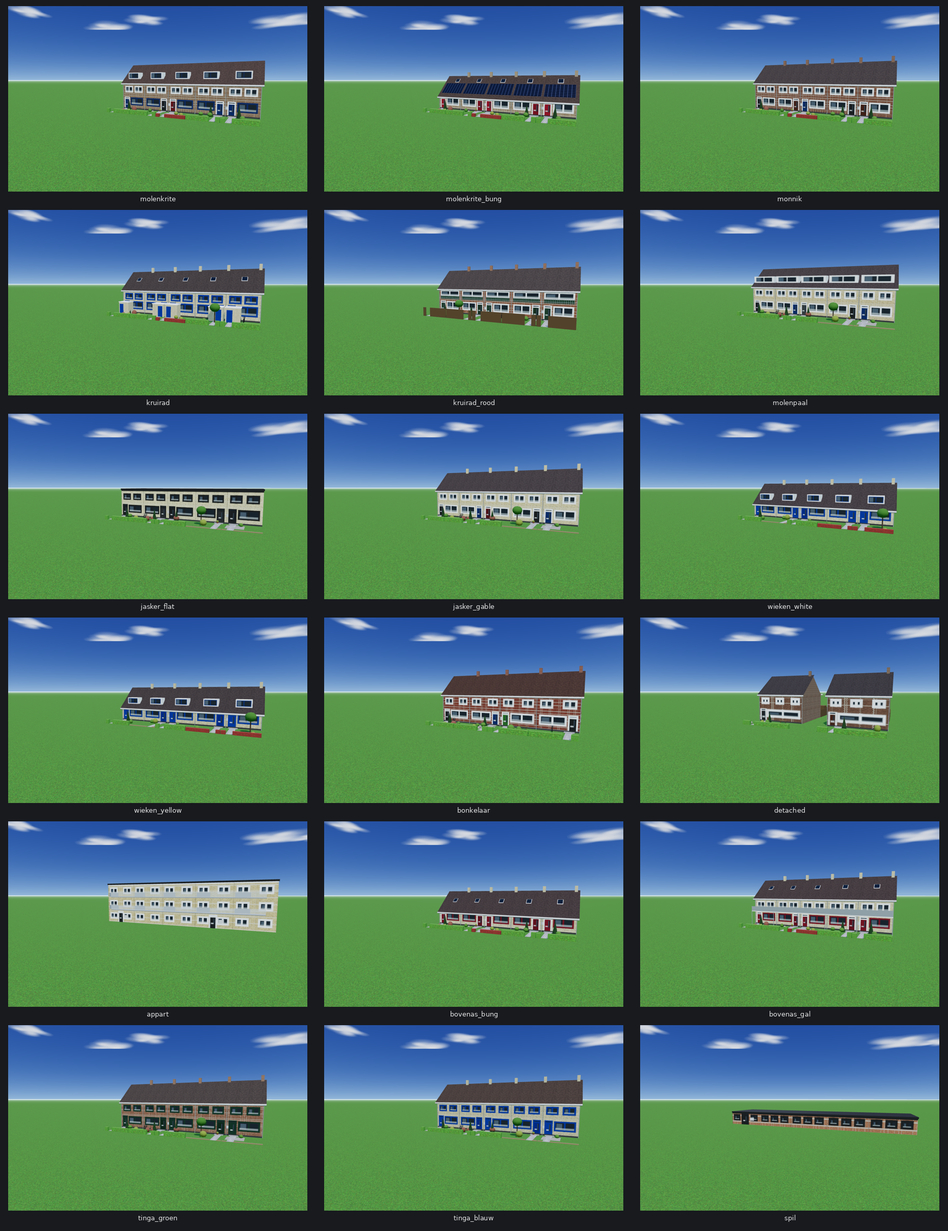
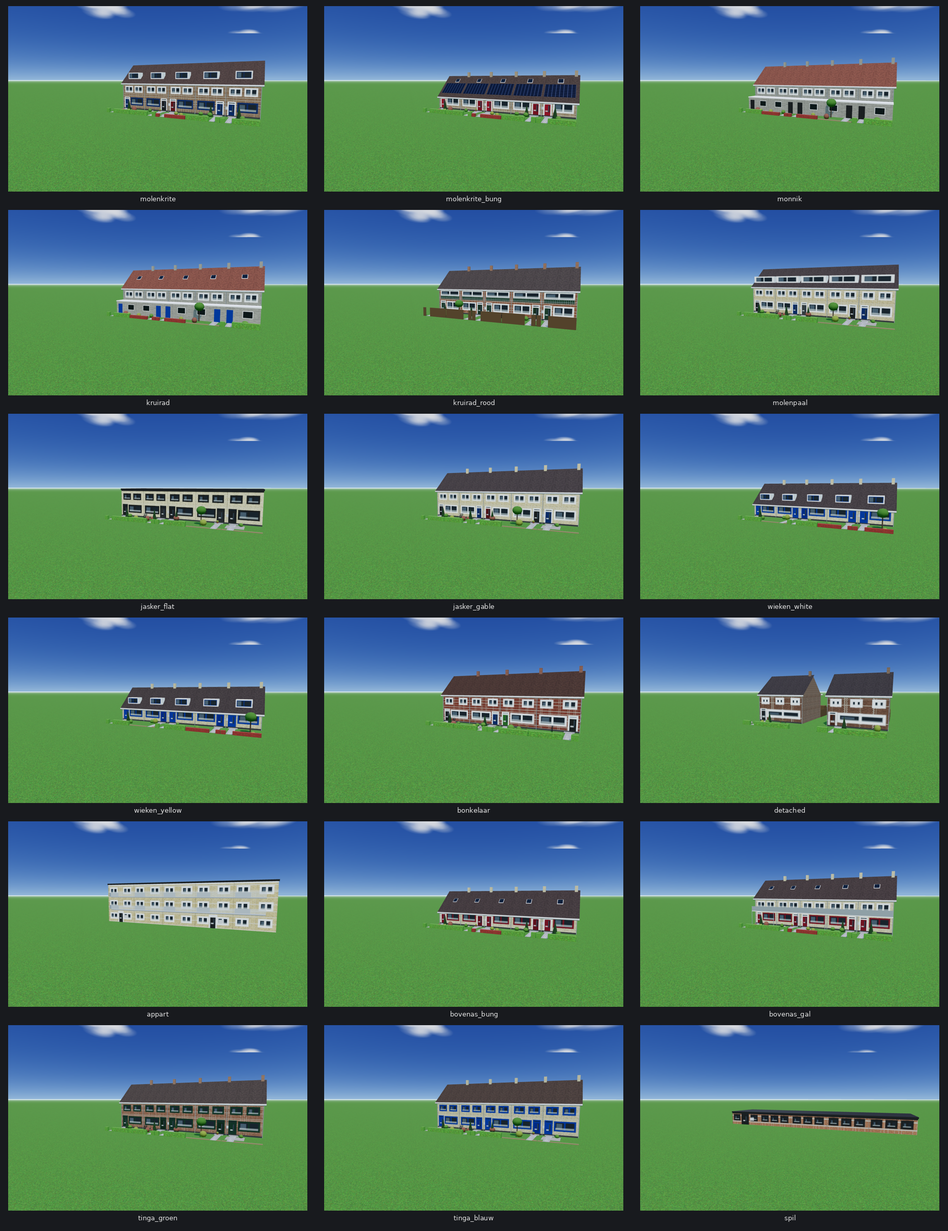
Kruirad en Monnikmolen: doorlopende laagbouw voor de gevel
Kruirad 62 en de Monnikmolen/Binnenroede van dichtbij laten zien dat ik de
opbouw verkeerd had. Het is geen bergingetje naast de voordeur, maar een
doorlopende laagbouw met plat dak over de volle breedte van het hele blok:
een gemetselde strook van 2,40 diep en 2,65 hoog met daarin de voordeuren en
per woning een raam, met het tweelaagse hoofdvolume met pannendak erachter.

Nieuw stijlveld `voorbouw`, in plaats van het te kleine `porch`. Ook de
kleuren waren mis:

- de baksteen is grijsbeige, niet lichtgeel
- de kozijnen zijn wit; alleen de deuren zijn blauw, niet elk kozijn
- het dak is roodbruine pan in plaats van donkergrijs
- verdiepinghoogte 2,75, zodat de bovenramen net boven het platte dak van de
  laagbouw beginnen

De Monnikmolen en de Binnenroede hebben dezelfde opbouw en krijgen die dus
ook. De voortuinaankleding houdt drie meter afstand van de gevel, want daar
staat de laagbouw.

Claude-Session: https://claude.ai/code/session_01CgvJ3cT2qTz68qbaTBhnbp

diff --git a/js/world.js b/js/world.js
@@ -966,31 +966,39 @@ function buildRow(scene, row, idx) {
         }
         group.add(new THREE.Mesh(mergeGeoms(chims), sideMat));
       }
-      // Bergingetje met plat dak voor de voordeur. Aan het Kruirad heeft elke
-      // woning er een: een gemetseld hokje van ruim twee meter dat precies voor
-      // de deur staat, met een eigen deur in de kopse kant.
-      if (st.porch) {
+      /* Doorlopende laagbouw met plat dak voor de gevel. Aan het Kruirad, de
+         Monnikmolen en de Binnenroede staat die over de volle breedte van het
+         hele blok: een gemetselde strook van ruim twee meter diep en 2,65 hoog
+         met daarin de voordeuren en een klein raam, met het tweelaagse
+         hoofdvolume erachter. Zie Kruirad 62 op street view. */
+      if (st.voorbouw) {
         const perHouse2 = unitLen / unitN;
-        const pw = Math.min(2.35, perHouse2 - 0.5), pd = 1.9, ph = 2.4;
-        const dozen = [], randen = [], deuren = [];
+        const vd = 2.4, vh = 2.65;
+        const zc = depth / 2 + vd / 2;
+        const romp = new THREE.BoxGeometry(unitLen, vh, vd); romp.translate(cx, vh / 2, zc);
+        const m1 = new THREE.Mesh(romp, sideMat); m1.castShadow = true; m1.receiveShadow = true;
+        // dakrand: een witte band rondom, iets uitkragend
+        const rand = new THREE.BoxGeometry(unitLen + 0.14, 0.18, vd + 0.14); rand.translate(cx, vh + 0.07, zc);
+        const deuren = [], ramen = [], kozijnen = [];
         for (let i = 0; i < unitN; i++) {
           const links = cx - unitLen / 2 + perHouse2 * i;
           // De voordeur zit een halve meter uit de zijgevel; bij oneven woningen
           // is de gevel gespiegeld, dus dan zit hij aan de andere kant.
           const gespiegeld = (i % 2 === 1) && !st.detached;
-          const hx = links + (gespiegeld ? perHouse2 - pw / 2 - 0.2 : pw / 2 + 0.2);
-          const zc = depth / 2 + pd / 2;
-          const b = new THREE.BoxGeometry(pw, ph, pd); b.translate(hx, ph / 2, zc); dozen.push(b);
-          const r2 = new THREE.BoxGeometry(pw + 0.16, 0.16, pd + 0.16); r2.translate(hx, ph + 0.06, zc); randen.push(r2);
-          const dz = new THREE.BoxGeometry(0.9, 2.05, 0.06);
-          dz.translate(hx + (gespiegeld ? 0.5 : -0.5), 1.03, depth / 2 + pd + 0.03); deuren.push(dz);
-          const p2 = toWorldLocal(hx, zc);
-          addCollider(p2.x, p2.y, pw / 2, pd / 2, rotY, ph);
+          const dx = links + (gespiegeld ? perHouse2 - 0.5 - 0.48 : 0.5 + 0.48);
+          const zf = depth / 2 + vd + 0.03;
+          const dz = new THREE.BoxGeometry(0.96, 2.15, 0.07); dz.translate(dx, 1.08, zf); deuren.push(dz);
+          // raampje naast de deur
+          const rx = links + (gespiegeld ? perHouse2 * 0.33 : perHouse2 * 0.67);
+          const kg = new THREE.BoxGeometry(1.5, 1.15, 0.06); kg.translate(rx, 1.55, zf); kozijnen.push(kg);
+          const rg = new THREE.BoxGeometry(1.32, 0.97, 0.05); rg.translate(rx, 1.55, zf + 0.02); ramen.push(rg);
         }
-        const m1 = new THREE.Mesh(mergeGeoms(dozen), sideMat); m1.castShadow = true; m1.receiveShadow = true;
-        const m2 = new THREE.Mesh(mergeGeoms(randen), MAT.white);
-        const dm = gedeeldMat('porchdeur|' + st.door[0], () => new THREE.MeshStandardMaterial({ color: st.door[0], roughness: 0.7 }));
-        group.add(m1, m2, new THREE.Mesh(mergeGeoms(deuren), dm));
+        const dm = gedeeldMat('vbdeur|' + st.door[0], () => new THREE.MeshStandardMaterial({ color: st.door[0], roughness: 0.7 }));
+        const km = gedeeldMat('vbkozijn|' + st.frame, () => new THREE.MeshStandardMaterial({ color: st.frame, roughness: 0.8 }));
+        group.add(m1, new THREE.Mesh(rand, MAT.white), new THREE.Mesh(mergeGeoms(deuren), dm),
+                  new THREE.Mesh(mergeGeoms(kozijnen), km), new THREE.Mesh(mergeGeoms(ramen), MAT.glassDark));
+        const p2 = toWorldLocal(cx, zc);
+        addCollider(p2.x, p2.y, unitLen / 2, vd / 2, rotY, vh);
       }
       // Frans balkonhekje voor de raamband op de verdieping.
       if (st.balkon && storeys > 1) {
@@ -1172,7 +1180,7 @@ function buildGardens() {
             const sx = hx + (r() - 0.5) * (w - 1.4);
             const sz = z0 + 0.8 + r() * Math.max(0.4, frontAvail - 1.6);
             if (Math.abs(sx - doorX) < 0.8) continue;
-            if (st.porch && sz < z0 + 2.4) continue;   // daar staat het bergingetje
+            if (st.voorbouw && sz < z0 + 3.0) continue;   // daar staat de laagbouw
             const sw = toWorldLocal(sx, sz);
             if (propNabij(sw.x, sw.y, 1.2)) continue;
             const rad = 0.32 + r() * 0.32;

diff --git a/js/textures.js b/js/textures.js
@@ -263,13 +263,20 @@ export function leaves(tint = '#4a7a2a') {
 export const HOUSE_STYLES = {
   molenkrite: { brick: ['#96755b', '#c0b7a6'], frame: '#ffffff', frame2: '#1f3a6e', door: ['#1f3a6e', '#2a2a2a', '#7a1f1f', '#1f3a6e'], roof: '#4e3d34', roofType: 'gable', storeys: 2, w: 5.4, dormer: true, chimney: false, solar: true, band: '#f2f2f2' },
   molenkrite_bung:{ brick: ['#a98d70', '#cbc2b0'], frame: '#ffffff', frame2: '#ffffff', door: ['#a5232c', '#8f1f27'], roof: '#4a3b32', roofType: 'gable', storeys: 1, w: 5.4, dormer: false, skylight: true, solar: true, solarFull: true, chimney: true, band: '#f4f4f4' },
-  monnik:     { brick: ['#8a5a45', '#bfb5a6'], frame: '#ffffff', frame2: '#ffffff', door: ['#2a2a2a', '#5a2d1a', '#1f3a6e'], roof: '#463c37', roofType: 'gable', storeys: 2, w: 5.4, dormer: false, chimney: true, band: '#f2f2f2' },
+  // Monnikmolen en Binnenroede hebben dezelfde opbouw als het Kruirad: een
+  // doorlopende laagbouw met plat dak voor het tweelaagse hoofdvolume.
+  monnik:     { brick: ['#9d978d', '#b3ada3'], frame: '#ffffff', frame2: '#ffffff', door: ['#2a2a2a', '#5a2d1a', '#1f3a6e'], roof: '#7d4a38', roofType: 'gable', storeys: 2, storeyH: 2.75, w: 5.4, dormer: false, chimney: true, voorbouw: true, band: '#f2f2f2' },
   // Kruirad: lichte gele baksteen met felblauwe kozijnen en deuren, twee lagen,
   // pannendak met dakramen (geen dakkapellen) – zie de street view vanaf het
   // groen aan de achterkant.
-  // Kruirad: lage gootlijn en een gemetseld bergingetje met plat dak voor de
-  // voordeur, zie de street view vanaf 50 Kruirad en 174 Monnikmolen.
-  kruirad:    { brick: ['#d5c49e', '#e4dccb'], frame: '#1746a0', frame2: '#1746a0', door: ['#1746a0', '#12388a'], roof: '#453b35', roofType: 'gable', storeys: 2, storeyH: 2.55, w: 5.4, dormer: false, skylight: true, chimney: true, porch: true, band: '#f2f2f2' },
+  /* Kruirad. Van dichtbij (Kruirad 62) blijkt de opbouw anders dan ik eerst
+     dacht: het is geen bergingetje naast de voordeur, maar een doorlopende
+     laagbouw met plat dak over de volle breedte van het hele blok. Daarin
+     zitten de blauwe voordeuren en een klein raam; het tweelaagse hoofdvolume
+     met het pannendak staat erachter. De steen is grijsbeige, niet geel, en de
+     kozijnen zijn wit met alleen de deuren in blauw. Het dak is roodbruine
+     pan. */
+  kruirad:    { brick: ['#a49d92', '#b6b0a6'], frame: '#ffffff', frame2: '#ffffff', door: ['#1746a0', '#12388a'], roof: '#7d4a38', roofType: 'gable', storeys: 2, storeyH: 2.75, w: 5.4, dormer: false, skylight: true, chimney: true, voorbouw: true, band: '#f2f2f2' },
   // Kruirad, de rijtjes aan de parkeerhoven: roodbruine baksteen, witte
   // kozijnen, een brede raamband op de verdieping met donkergroene panelen
   // eronder en een wit balkonhekje ervoor. Zie 48 Kruirad op street view.
